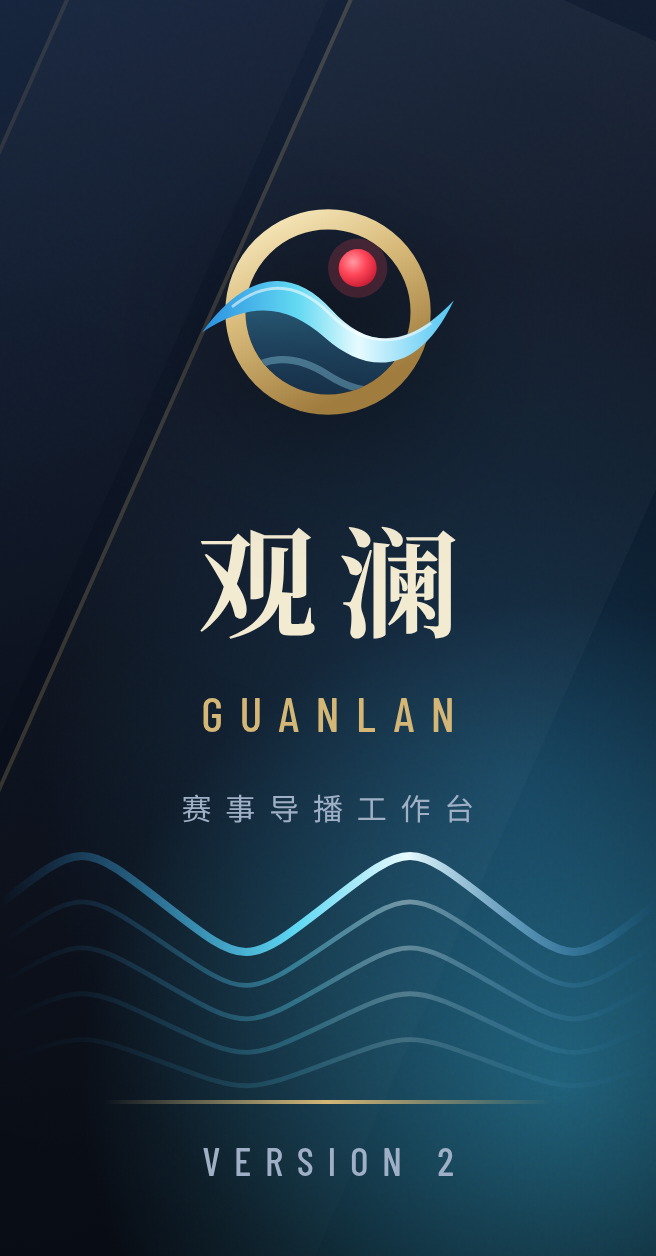
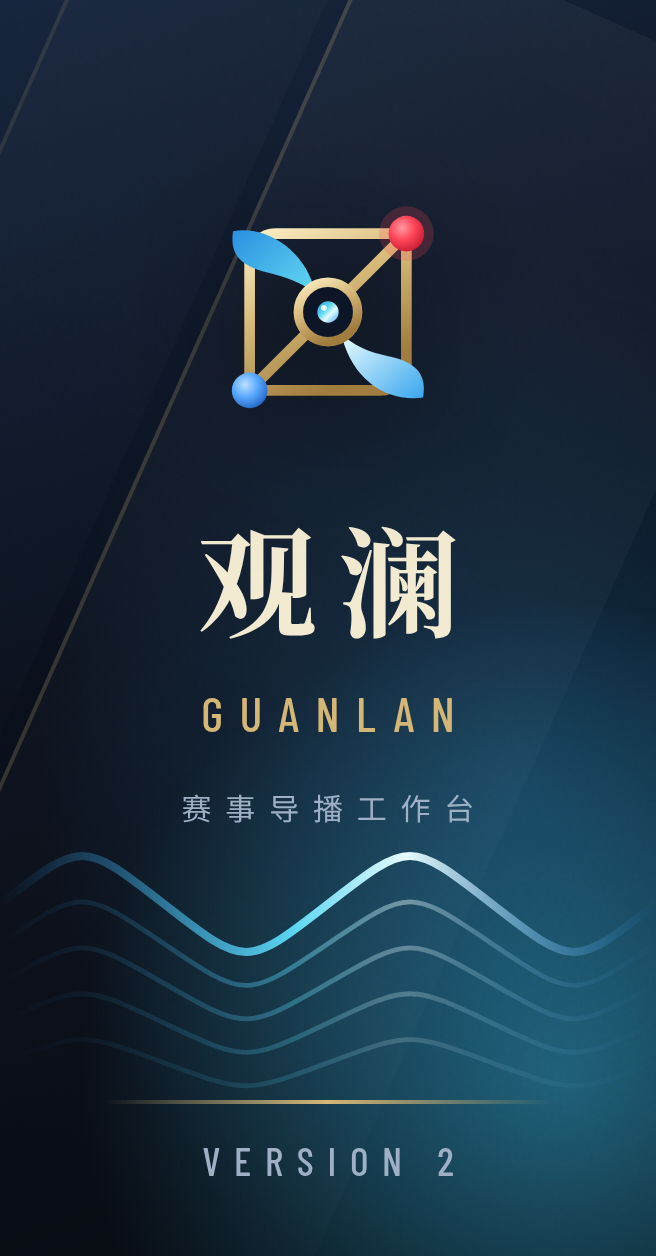
brand: 观澜 mark shows the Rift map — lanes, bases, river wave and observer lens

Changed region(s): [[0.3049, 0.1553, 0.6707, 0.3416]]

diff --git a/src/components/BrandMark.tsx b/src/components/BrandMark.tsx
@@ -1,37 +1,38 @@
 import { useId } from 'react';
 
-/** 观澜 mark: brass lens ring, one arc-light wave, on-air tally. Source of truth: brand/guanlan-icon.svg */
+/** 观澜 mark: Rift map (three lanes, blue and red bases), the river as a wave of arc light, the observer's lens
+ *  at the river crossing. Source of truth: brand/guanlan-icon.svg */
 export function BrandMark({ size = 36, tile = true, title }: { size?: number; tile?: boolean; title?: string }) {
   const id = useId().replace(/[^a-zA-Z0-9]/g, '');
-  const wave = 'M44 290 C124 180 200 184 262 252 S392 318 468 236 C404 372 316 356 252 300 S128 236 44 290 Z';
+  const river = 'M96 120 C150 110 214 150 232 214 S292 318 356 330 S420 376 416 400 C356 408 300 372 280 300 S214 204 156 190 S92 150 96 120 Z';
+  const cut = tile ? '#0a111e' : 'none';
   return <svg className="brand-mark" width={size} height={size} viewBox="0 0 512 512" role={title ? 'img' : undefined} aria-label={title} aria-hidden={title ? undefined : true} focusable="false">
     <defs>
       <linearGradient id={`${id}t`} x1="0" y1="0" x2="1" y2="1"><stop offset="0" stopColor="#16233a"/><stop offset=".55" stopColor="#0b1220"/><stop offset="1" stopColor="#05080e"/></linearGradient>
       <linearGradient id={`${id}r`} x1="0" y1="0" x2="1" y2="1"><stop offset="0" stopColor="#f3e0aa"/><stop offset=".45" stopColor="#c8aa6e" stopOpacity=".55"/><stop offset="1" stopColor="#7a6231" stopOpacity=".9"/></linearGradient>
       <linearGradient id={`${id}g`} x1="0" y1="0" x2=".5" y2="1"><stop offset="0" stopColor="#fbeec5"/><stop offset=".45" stopColor="#d9bc7c"/><stop offset="1" stopColor="#a07c3e"/></linearGradient>
-      <linearGradient id={`${id}a`} x1="0" y1="0" x2="1" y2="0"><stop offset="0" stopColor="#2a8fe0"/><stop offset=".38" stopColor="#63d9f2"/><stop offset=".62" stopColor="#e6fbff"/><stop offset="1" stopColor="#4fc4f2"/></linearGradient>
-      <linearGradient id={`${id}w`} x1="0" y1="0" x2="0" y2="1"><stop offset="0" stopColor="#4fc4f2" stopOpacity=".42"/><stop offset="1" stopColor="#1b5fb4" stopOpacity=".06"/></linearGradient>
-      <radialGradient id={`${id}b`} cx="50%" cy="58%" r="50%"><stop offset="0" stopColor="#3fc8f0" stopOpacity=".3"/><stop offset="1" stopColor="#3fc8f0" stopOpacity="0"/></radialGradient>
+      <linearGradient id={`${id}a`} x1="0" y1="0" x2="1" y2="1"><stop offset="0" stopColor="#2a8fe0"/><stop offset=".4" stopColor="#63d9f2"/><stop offset=".6" stopColor="#e6fbff"/><stop offset="1" stopColor="#3aa6ee"/></linearGradient>
+      <radialGradient id={`${id}b`} cx="50%" cy="50%" r="50%"><stop offset="0" stopColor="#3fc8f0" stopOpacity=".28"/><stop offset="1" stopColor="#3fc8f0" stopOpacity="0"/></radialGradient>
       <radialGradient id={`${id}d`} cx="38%" cy="34%" r="70%"><stop offset="0" stopColor="#ff9aa2"/><stop offset=".5" stopColor="#ff4558"/><stop offset="1" stopColor="#c81d33"/></radialGradient>
-      <clipPath id={`${id}c`}><rect x="16" y="16" width="480" height="480" rx="108"/></clipPath>
-      <clipPath id={`${id}l`}><circle cx="256" cy="256" r="139"/></clipPath>
+      <radialGradient id={`${id}u`} cx="38%" cy="34%" r="70%"><stop offset="0" stopColor="#bfe0ff"/><stop offset=".5" stopColor="#5aa9ff"/><stop offset="1" stopColor="#2468c8"/></radialGradient>
     </defs>
     {tile && <>
       <rect x="16" y="16" width="480" height="480" rx="108" fill={`url(#${id}t)`}/>
       <rect x="16" y="16" width="480" height="480" rx="108" fill={`url(#${id}b)`}/>
       <rect x="21" y="21" width="470" height="470" rx="103" fill="none" stroke={`url(#${id}r)`} strokeWidth="8"/>
     </>}
-    <g clipPath={`url(#${id}l)`}>
-      <path fill={`url(#${id}w)`} d="M40 292 C120 196 196 196 256 268 S392 340 472 244 V520 H40 Z"/>
-      <path fill="none" stroke="#9fe6fb" strokeOpacity=".34" strokeWidth="12" strokeLinecap="round" d="M96 372 C150 326 200 326 256 362 S362 398 416 352"/>
+    <g fill="none" stroke={`url(#${id}g)`} strokeWidth="18" strokeLinecap="round" strokeLinejoin="round">
+      <path d="M124 388 V168 a44 44 0 0 1 44 -44 H388"/><path d="M124 388 H344 a44 44 0 0 0 44 -44 V124"/><path d="M124 388 L388 124"/>
     </g>
-    <circle cx="256" cy="256" r="156" fill="none" stroke={`url(#${id}g)`} strokeWidth="34"/>
-    <g clipPath={`url(#${id}c)`}>
-      {tile && <path fill="#0a111e" stroke="#0a111e" strokeWidth="22" strokeLinejoin="round" d={wave}/>}
-      <path fill={`url(#${id}a)`} d={wave}/>
-      <path fill="none" stroke="#fff" strokeOpacity=".55" strokeWidth="5" strokeLinecap="round" d="M96 246 C150 204 204 204 258 258 S372 316 428 276"/>
-    </g>
-    <circle className="brand-mark-tally-halo" cx="306" cy="182" r="50" fill="#ff4558" opacity=".2"/>
-    <circle className="brand-mark-tally" cx="306" cy="182" r="32" fill={`url(#${id}d)`}/>
+    <path d={river} fill={cut} stroke={cut} strokeWidth="26" strokeLinejoin="round"/>
+    <path d={river} fill={`url(#${id}a)`}/>
+    <circle cx="256" cy="256" r="62" fill={cut}/>
+    <circle cx="256" cy="256" r="50" fill="#0c1627" stroke={`url(#${id}g)`} strokeWidth="16"/>
+    <circle cx="256" cy="256" r="18" fill={`url(#${id}a)`}/>
+    <circle cx="249" cy="249" r="5" fill="#fff" opacity=".85"/>
+    <circle cx="124" cy="388" r="40" fill={cut}/><circle cx="124" cy="388" r="30" fill={`url(#${id}u)`}/>
+    <circle cx="388" cy="124" r="40" fill={cut}/>
+    <circle className="brand-mark-tally-halo" cx="388" cy="124" r="46" fill="#ff4558" opacity=".2"/>
+    <circle className="brand-mark-tally" cx="388" cy="124" r="30" fill={`url(#${id}d)`}/>
   </svg>;
 }
